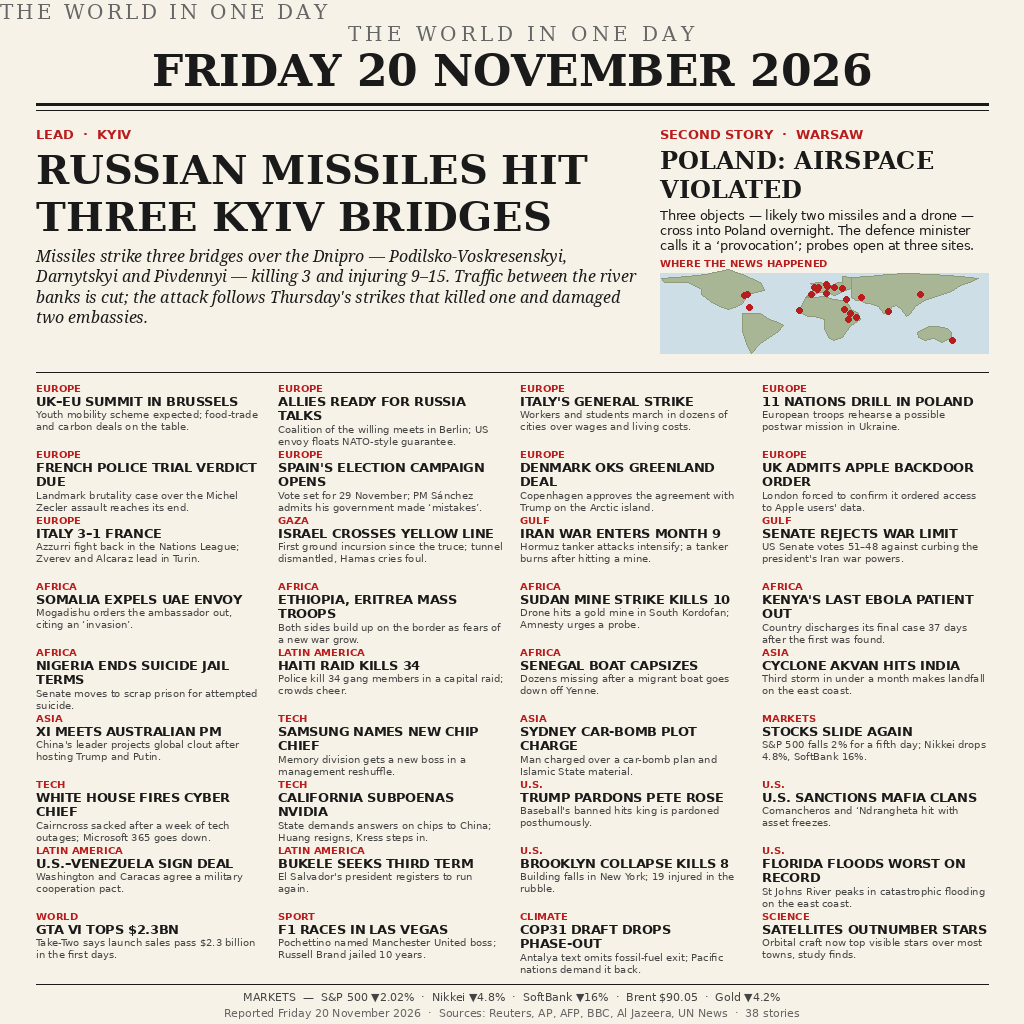
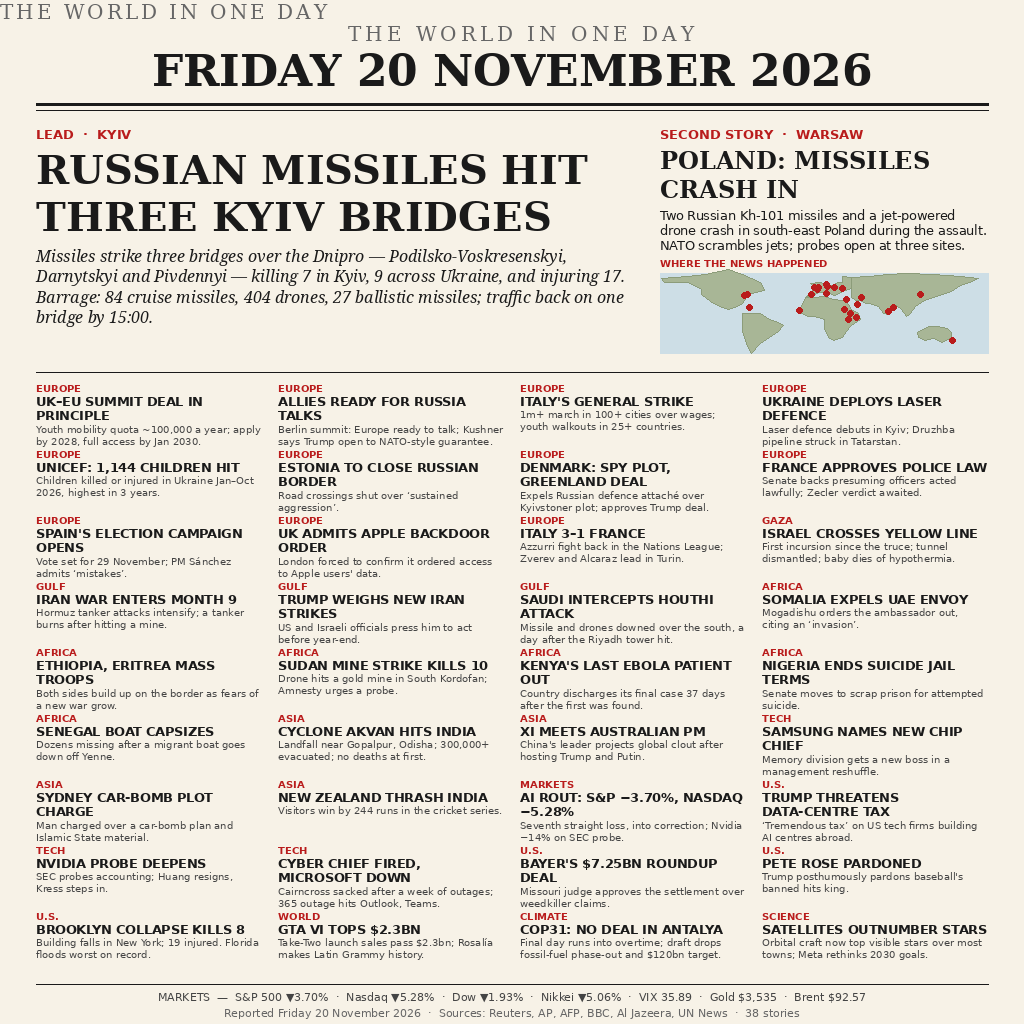
v2: full day 20 Nov 2026 front page (38 stories)
Updated Kyiv toll (7 killed in Kyiv, 9 across Ukraine), Poland missile
crash, Friday-close markets rout, COP31 no deal, Cyclone Akvan, Trump
data-centre tax, Nvidia probe. Supersedes partial-day v1.

diff --git a/main.py b/main.py
@@ -2,11 +2,12 @@
 """Make.fun entry: news-image-20261120.
 
 Copies the committed front-page image (entry.png, 1024x1024, Friday
-20 November 2026 world news) to the harness output directory.
-Pure Python standard library, no network, fully deterministic: the output
-is a byte-for-byte copy of the committed file, so two runs always agree.
+20 November 2026 world news, full-day v2 edition) to the harness output
+directory. Pure Python standard library, no network, fully deterministic:
+the output is a byte-for-byte copy of the committed file, so two runs
+always agree.
 Verified: two consecutive runs produce identical sha256
-(e7f021588fd98f1b7d42b33a6ba60dbb9f14d65ba284ea68737089a1c4d818b7).
+(0c949c88b19a94e402c453e466182aafcb15c5ee8432e92f101cc7f11041c707).
 """
 import os
 import shutil

diff --git a/README.md b/README.md
@@ -4,7 +4,7 @@
 [![rank](https://make.fun/badge/news-image-20261120/pytraaa9-ai/news-image-20261120/rank.svg)](https://make.fun/bounty/news-image-20261120/leaderboard?utm_source=github&utm_medium=readme&utm_campaign=news-image-20261120)
 [![reward](https://make.fun/badge/news-image-20261120/pytraaa9-ai/news-image-20261120/reward.svg)](https://make.fun/bounty/news-image-20261120?utm_source=github&utm_medium=readme&utm_campaign=news-image-20261120)
 
-A program that writes one image summing up Friday 20 November 2026 world news — a newspaper front page (1024×1024 PNG): lead story Russian missiles hitting three Kyiv bridges, plus 37 more stories across six continents, a world map, and the day's biggest market slide.
+A program that writes one image summing up Friday 20 November 2026 world news — a newspaper front page (1024×1024 PNG): lead story Russian missiles hitting three Kyiv bridges (updated toll: 7 killed in Kyiv, 9 across Ukraine), plus 37 more stories across six continents, a world map, and Friday's AI-driven market rout. Full-day v2 edition — supersedes the partial-day v1.
 
 ## Run it
 
@@ -14,49 +14,49 @@ mkdir -p out && MAKEFUN_OUTPUT_DIR=out python3 main.py
 
 ## The day's news
 
-- **Lead:** Russian missiles hit three Kyiv bridges — Missiles strike three bridges over the Dnipro — Podilsko-Voskresenskyi, Darnytskyi and Pivdennyi — killing 3 and injuring 9–15. Traffic between the river banks is cut; the attack follows Thursday's strikes that killed one and damaged two embassies.
-- **Second story:** Poland: airspace violated — Three objects — likely two missiles and a drone — cross into Poland overnight. The defence minister calls it a ‘provocation’; probes open at three sites.
-- UK–EU summit in Brussels: Youth mobility scheme expected; food-trade and carbon deals on the table.
-- Allies ready for Russia talks: Coalition of the willing meets in Berlin; US envoy floats NATO-style guarantee.
-- Italy's general strike: Workers and students march in dozens of cities over wages and living costs.
-- 11 nations drill in Poland: European troops rehearse a possible postwar mission in Ukraine.
-- French police trial verdict due: Landmark brutality case over the Michel Zecler assault reaches its end.
-- Spain's election campaign opens: Vote set for 29 November; PM Sánchez admits his government made ‘mistakes’.
-- Denmark oks Greenland deal: Copenhagen approves the agreement with Trump on the Arctic island.
+- **Lead:** Russian missiles hit three Kyiv bridges — Missiles strike three bridges over the Dnipro — Podilsko-Voskresenskyi, Darnytskyi and Pivdennyi — killing 7 in Kyiv, 9 across Ukraine, and injuring 17. Barrage: 84 cruise missiles, 404 drones, 27 ballistic missiles; traffic back on one bridge by 15:00.
+- **Second story:** Poland: missiles crash in — Two Russian Kh-101 missiles and a jet-powered drone crash in south-east Poland during the assault. NATO scrambles jets; probes open at three sites.
+- UK–EU summit deal in principle: Youth mobility quota ~100,000 a year; apply by 2028, full access by Jan 2030.
+- Allies ready for Russia talks: Berlin summit: Europe ready to talk; Kushner says Trump open to NATO-style guarantee.
+- Italy's general strike: 1m+ march in 100+ cities over wages; youth walkouts in 25+ countries.
+- Ukraine deploys laser defence: Laser defence debuts in Kyiv; Druzhba pipeline struck in Tatarstan.
+- UNICEF: 1,144 children hit: Children killed or injured in Ukraine Jan–Oct 2026, highest in 3 years.
+- Estonia to close Russian border: Road crossings shut over ‘sustained aggression’.
+- Denmark: spy plot, Greenland deal: Expels Russian defence attaché over Kyivstoner plot; approves Trump deal.
+- France approves police law: Senate backs presuming officers acted lawfully; Zecler verdict awaited.
+- Spain's election campaign opens: Vote set for 29 November; PM Sánchez admits ‘mistakes’.
 - UK admits Apple backdoor order: London forced to confirm it ordered access to Apple users' data.
 - Italy 3–1 France: Azzurri fight back in the Nations League; Zverev and Alcaraz lead in Turin.
-- Israel crosses Yellow Line: First ground incursion since the truce; tunnel dismantled, Hamas cries foul.
+- Israel crosses Yellow Line: First incursion since the truce; tunnel dismantled; baby dies of hypothermia.
 - Iran war enters month 9: Hormuz tanker attacks intensify; a tanker burns after hitting a mine.
-- Senate rejects war limit: US Senate votes 51–48 against curbing the president's Iran war powers.
+- Trump weighs new Iran strikes: US and Israeli officials press him to act before year-end.
+- Saudi intercepts Houthi attack: Missile and drones downed over the south, a day after the Riyadh tower hit.
 - Somalia expels UAE envoy: Mogadishu orders the ambassador out, citing an ‘invasion’.
 - Ethiopia, Eritrea mass troops: Both sides build up on the border as fears of a new war grow.
 - Sudan mine strike kills 10: Drone hits a gold mine in South Kordofan; Amnesty urges a probe.
 - Kenya's last Ebola patient out: Country discharges its final case 37 days after the first was found.
 - Nigeria ends suicide jail terms: Senate moves to scrap prison for attempted suicide.
-- Haiti raid kills 34: Police kill 34 gang members in a capital raid; crowds cheer.
 - Senegal boat capsizes: Dozens missing after a migrant boat goes down off Yenne.
-- Cyclone Akvan hits India: Third storm in under a month makes landfall on the east coast.
+- Cyclone Akvan hits India: Landfall near Gopalpur, Odisha; 300,000+ evacuated; no deaths at first.
 - Xi meets Australian PM: China's leader projects global clout after hosting Trump and Putin.
 - Samsung names new chip chief: Memory division gets a new boss in a management reshuffle.
 - Sydney car-bomb plot charge: Man charged over a car-bomb plan and Islamic State material.
-- Stocks slide again: S&P 500 falls 2% for a fifth day; Nikkei drops 4.8%, SoftBank 16%.
-- White House fires cyber chief: Cairncross sacked after a week of tech outages; Microsoft 365 goes down.
-- California subpoenas Nvidia: State demands answers on chips to China; Huang resigns, Kress steps in.
-- Trump pardons Pete Rose: Baseball's banned hits king is pardoned posthumously.
-- U.S. sanctions mafia clans: Comancheros and ‘Ndrangheta hit with asset freezes.
-- U.S.–Venezuela sign deal: Washington and Caracas agree a military cooperation pact.
-- Bukele seeks third term: El Salvador's president registers to run again.
-- Brooklyn collapse kills 8: Building falls in New York; 19 injured in the rubble.
-- Florida floods worst on record: St Johns River peaks in catastrophic flooding on the east coast.
-- GTA VI tops $2.3bn: Take-Two says launch sales pass $2.3 billion in the first days.
-- F1 races in Las Vegas: Pochettino named Manchester United boss; Russell Brand jailed 10 years.
-- COP31 draft drops phase-out: Antalya text omits fossil-fuel exit; Pacific nations demand it back.
-- Satellites outnumber stars: Orbital craft now top visible stars over most towns, study finds.
+- New Zealand thrash India: Visitors win by 244 runs in the cricket series.
+- AI rout: S&P −3.70%, Nasdaq −5.28%: Seventh straight loss, into correction; Nvidia −14% on SEC probe.
+- Trump threatens data-centre tax: ‘Tremendous tax’ on US tech firms building AI centres abroad.
+- Nvidia probe deepens: SEC probes accounting; Huang resigns, Kress steps in.
+- Cyber chief fired, Microsoft down: Cairncross sacked after a week of outages; 365 outage hits Outlook, Teams.
+- Bayer's $7.25bn Roundup deal: Missouri judge approves the settlement over weedkiller claims.
+- Pete Rose pardoned: Trump posthumously pardons baseball's banned hits king.
+- Brooklyn collapse kills 8: Building falls in New York; 19 injured. Florida floods worst on record.
+- GTA VI tops $2.3bn: Take-Two launch sales pass $2.3bn; Rosalía makes Latin Grammy history.
+- COP31: no deal in Antalya: Final day runs into overtime; draft drops fossil-fuel phase-out and $120bn target.
+- Satellites outnumber stars: Orbital craft now top visible stars over most towns; Meta rethinks 2030 goals.
 
 All stories were verified against at least two reputable sources
 (Reuters, AP, AFP, BBC, Al Jazeera, UN News) on 20 November 2026.
-Note: this v1 entry covers the news of Friday 20 November 2026 reported
-so far; a full-day v2 entry may replace it before the deadline.
+This v2 entry covers the full day of Friday 20 November 2026 and
+supersedes the partial-day v1 entry.
 
 ## How it works
 
